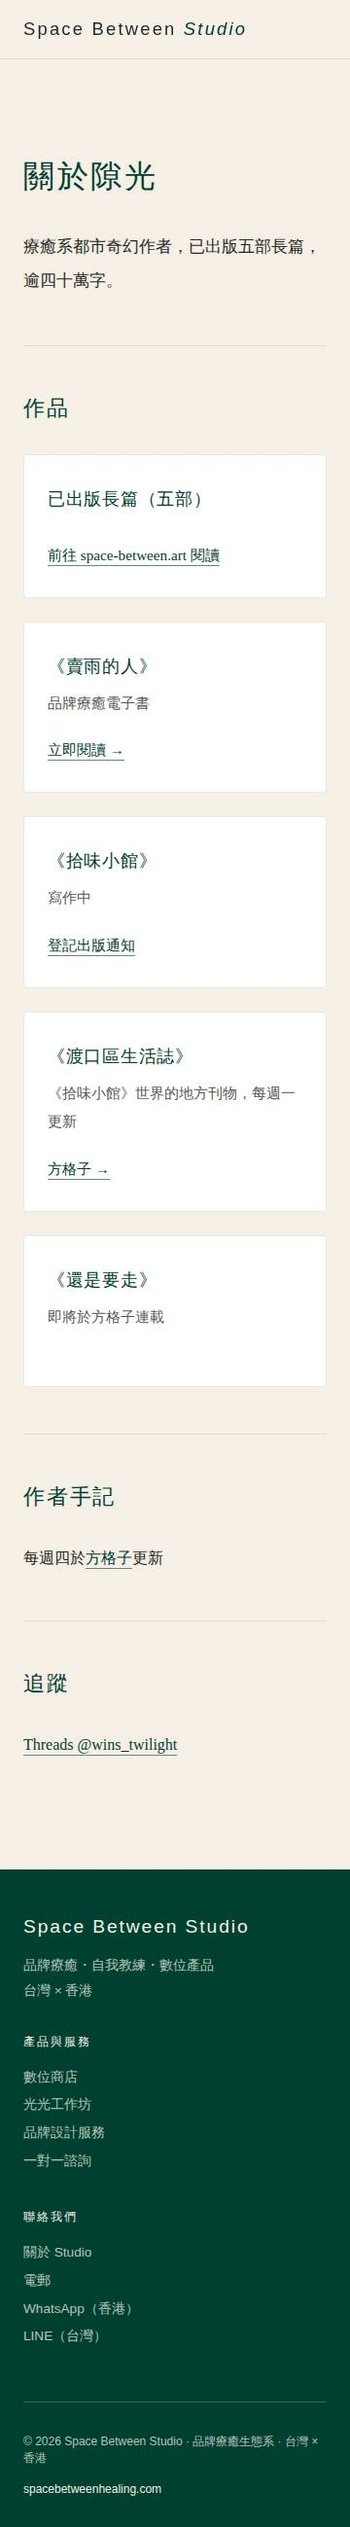
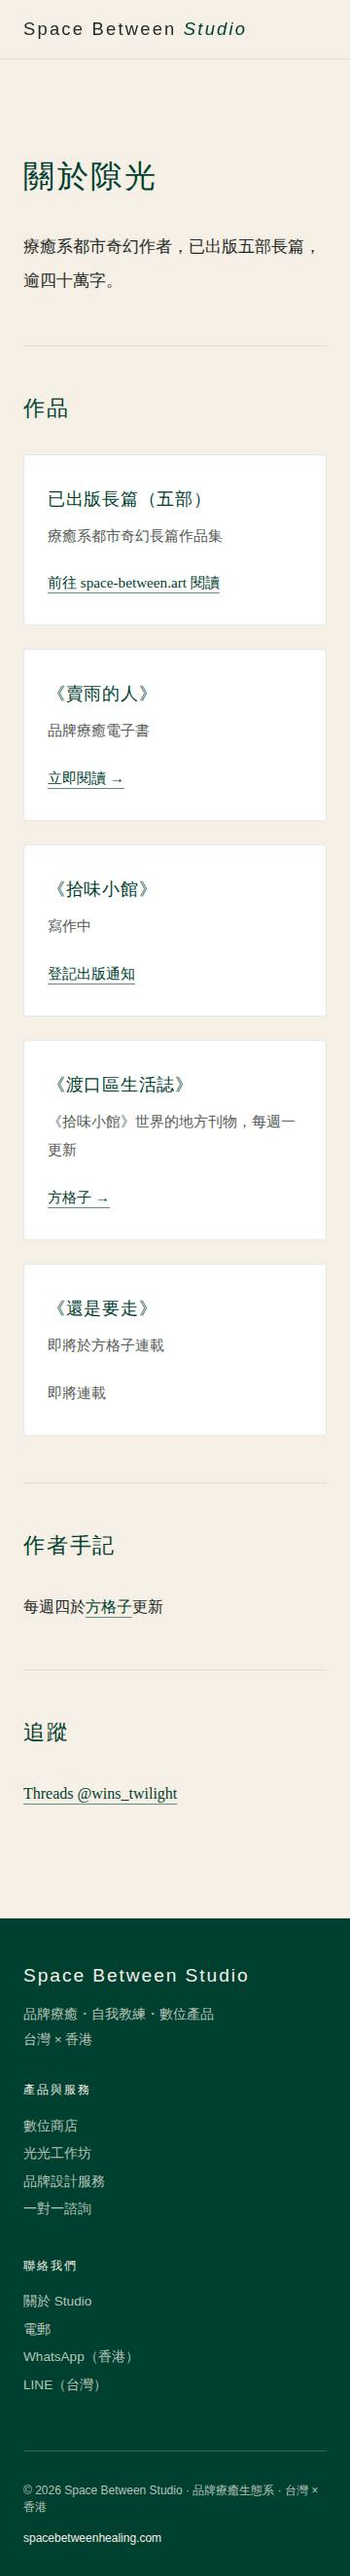
Writing page: apply content decisions
- 已出版長篇（五部）: add description 「療癒系都市奇幻長篇作品集」
- 《還是要走》: no link; show plain 「即將連載」 status in the link slot
- Threads URL -> https://www.threads.com/@wins_twilight (page, JSON-LD,
  llms.txt)
- Refresh screenshots

Claude-Session: https://claude.ai/code/session_01MsWpeErgBNFDKhoVrQdn2w

diff --git a/writing/index.html b/writing/index.html
@@ -36,7 +36,7 @@
         "sameAs": [
           "https://space-between.art",
           "https://vocus.cc/salon/xiguang",
-          "https://www.threads.net/@wins_twilight"
+          "https://www.threads.com/@wins_twilight"
         ]
       },
       {
@@ -185,6 +185,11 @@
       align-self: flex-start;
       font-size: 0.95rem;
     }
+    .work-status {
+      align-self: flex-start;
+      font-size: 0.95rem;
+      color: var(--color-text-muted);
+    }
     .work-link:hover, .text-link:hover { text-decoration-color: var(--color-accent); }
     .work-link:focus-visible, .text-link:focus-visible, nav a:focus-visible, footer a:focus-visible {
       outline: 2px solid var(--color-accent-soft);
@@ -270,7 +275,7 @@
       <ul class="works">
         <li class="work-card">
           <h3 class="work-title">已出版長篇（五部）</h3>
-          <p class="work-desc"></p>
+          <p class="work-desc">療癒系都市奇幻長篇作品集</p>
           <a class="work-link" href="https://space-between.art" target="_blank" rel="noopener">前往 space-between.art 閱讀</a>
         </li>
         <li class="work-card">
@@ -291,6 +296,7 @@
         <li class="work-card">
           <h3 class="work-title">《還是要走》</h3>
           <p class="work-desc">即將於方格子連載</p>
+          <span class="work-status">即將連載</span>
         </li>
       </ul>
     </section>
@@ -302,7 +308,7 @@
 
     <section class="section" aria-labelledby="follow-title">
       <h2 id="follow-title">追蹤</h2>
-      <p class="note"><a class="text-link" href="https://www.threads.net/@wins_twilight" target="_blank" rel="noopener">Threads @wins_twilight</a></p>
+      <p class="note"><a class="text-link" href="https://www.threads.com/@wins_twilight" target="_blank" rel="noopener">Threads @wins_twilight</a></p>
     </section>
   </main>
 
